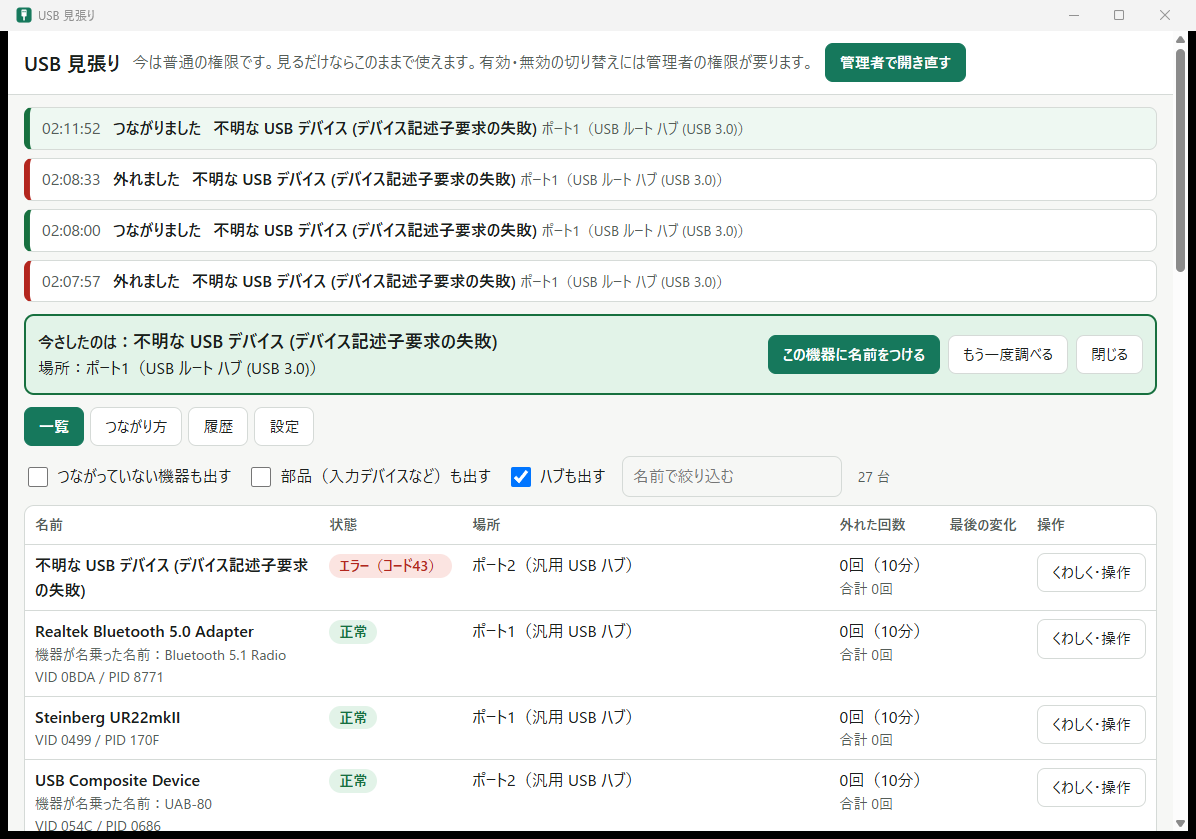
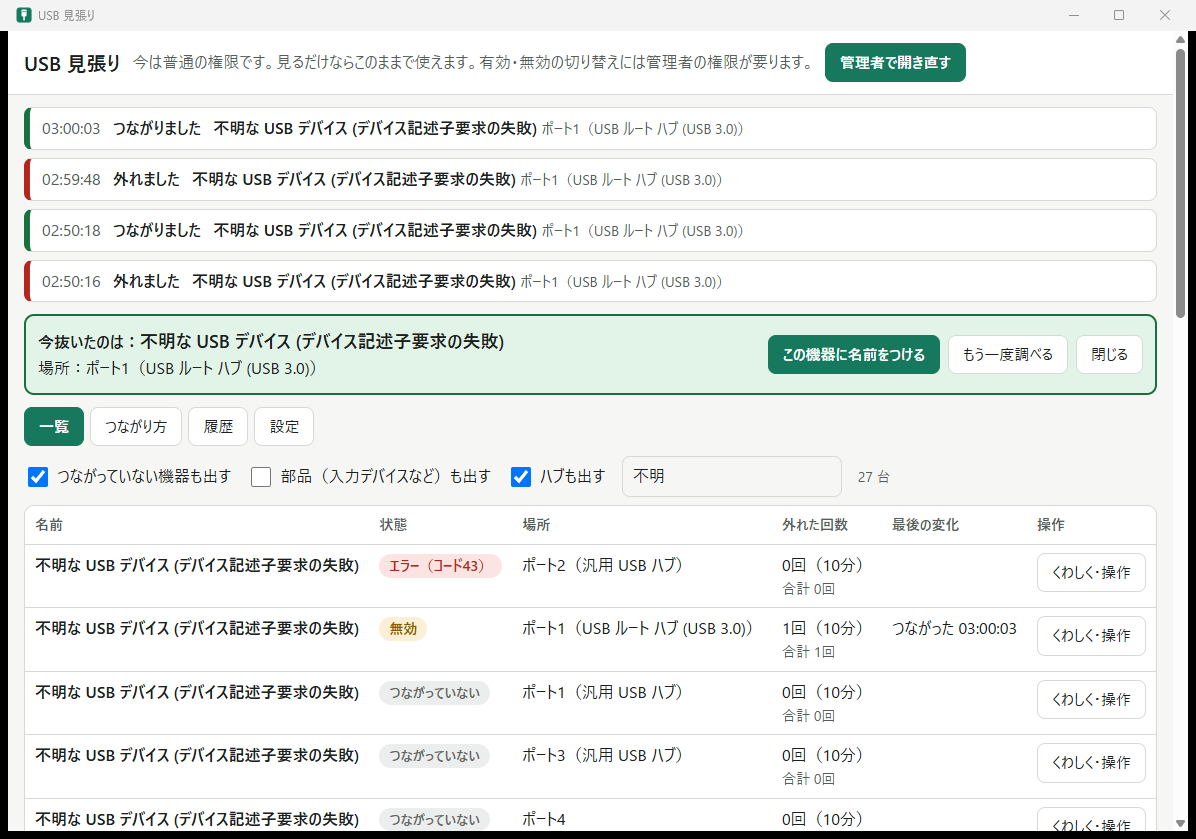
README を今の仕様に更新、1つだけ開くようにする
- README: 画面ごとの説明と画像を今の画面で撮り直し、絞り込み・履歴・
  有効・無効と省電力の画像、見張りの仕組み、テストの流し方を追加
- 2つ同時に開くと両方が履歴に書き込んで記録が二重になっていた
  → 2つ目は開いている窓を前に出して終わる。「管理者で開き直す」のときは
    前の窓が閉じるのを最大10秒待つ
- 過去の二重の記録は、履歴の表示で1回にまとめる（ファイルは消さない）

diff --git a/ui/index.html b/ui/index.html
@@ -1084,8 +1084,20 @@
       }
 
       // ---------- 履歴 ----------
+      // 2 つ同時に開いていたときの記録は二重になっているので、表示では 1 回にまとめる
+      function dedupeChanges(list) {
+        const out = [];
+        for (const ch of list) {
+          const key = ch.kind + "|" + ch.items.map((i) => up(i.id)).join(",");
+          const dup = out.find(
+            (o) => o._key === key && Math.abs(o.time - ch.time) < 2000,
+          );
+          if (!dup) out.push({ ...ch, _key: key });
+        }
+        return out;
+      }
       async function loadHistory() {
-        const h = await invoke("get_history", { limit: 500 });
+        const h = dedupeChanges(await invoke("get_history", { limit: 500 }));
         document.getElementById("hist").innerHTML =
           h.map((ch) => changeHtml(ch, false)).join("") ||
           `<div class="empty">まだ記録がありません</div>`;
@@ -1219,8 +1231,8 @@
       (async () => {
         await loadAdmin();
         await refresh();
-        const h = await invoke("get_history", { limit: 4 });
-        state.recent = h;
+        const h = dedupeChanges(await invoke("get_history", { limit: 12 }));
+        state.recent = h.slice(0, 4);
         renderRecent();
         loadPower().then(() => {
           if (dlg.open) renderDetail();

diff --git a/src-tauri/src/main.rs b/src-tauri/src/main.rs
@@ -85,7 +85,7 @@ fn relaunch_admin(app: tauri::AppHandle) -> Result<(), String> {
             None,
             w!("runas"),
             PCWSTR(wexe.as_ptr()),
-            None,
+            w!("--relaunched"),
             None,
             windows::Win32::UI::WindowsAndMessaging::SW_SHOWNORMAL,
         )
@@ -201,7 +201,68 @@ fn show_error(msg: &str) {
     }
 }
 
+/// 1 つだけ開くための目印 (名前付きミューテックス)。取れたら true。
+/// 取れたハンドルはアプリが終わるまで持ち続ける。
+fn take_single_instance() -> bool {
+    use windows::core::w;
+    use windows::Win32::Foundation::{CloseHandle, GetLastError, ERROR_ALREADY_EXISTS};
+    use windows::Win32::System::Threading::CreateMutexW;
+    unsafe {
+        match CreateMutexW(None, false, w!("Local\\usb-watch-single-instance")) {
+            Ok(h) => {
+                if GetLastError() == ERROR_ALREADY_EXISTS {
+                    // 自分のハンドルは閉じる (持ったままだと、先の窓が閉じても目印が残る)
+                    let _ = CloseHandle(h);
+                    false
+                } else {
+                    true
+                }
+            }
+            // 管理者の窓が作った目印は、普通の権限からは開けない (= もう開いている)
+            Err(_) => false,
+        }
+    }
+}
+
+/// すでに開いている窓を前に出す。見つからなければ false。
+fn focus_existing() -> bool {
+    use windows::core::w;
+    use windows::Win32::UI::WindowsAndMessaging::{FindWindowW, SetForegroundWindow, ShowWindow, SW_RESTORE};
+    unsafe {
+        for title in [w!("USB 見張り"), w!("USB 見張り（管理者）")] {
+            if let Ok(h) = FindWindowW(None, title) {
+                if !h.is_invalid() {
+                    let _ = ShowWindow(h, SW_RESTORE);
+                    let _ = SetForegroundWindow(h);
+                    return true;
+                }
+            }
+        }
+    }
+    false
+}
+
 fn main() {
+    // 2 つ同時に動くと、両方が履歴に書き込んで記録が二重になる
+    let relaunched = std::env::args().any(|a| a == "--relaunched");
+    let mut got = take_single_instance();
+    if !got && relaunched {
+        // 「管理者で開き直す」のときは、前の窓が閉じるのを最大 10 秒待つ
+        for _ in 0..50 {
+            std::thread::sleep(std::time::Duration::from_millis(200));
+            got = take_single_instance();
+            if got {
+                break;
+            }
+        }
+    }
+    if !got {
+        if !focus_existing() {
+            show_error("USB 見張りはもう開いています。");
+        }
+        return;
+    }
+
     let shared: Shared = Arc::new(Mutex::new(watch::Counters::default()));
     tauri::Builder::default()
         .manage(shared.clone())

diff --git a/README.md b/README.md
@@ -5,68 +5,110 @@ USB 機器の一覧を出して、**つないだ・外れた**をその場で知
 
 ![一覧の画面](docs/images/list.png)
 
+## ダウンロード
+
+[Releases](https://github.com/hhurt21/usb-preview/releases) から `usb-watch.exe` をダウンロードして開くだけです。インストールは要りません。
+
+- Windows 10 / 11 用です。画面の表示に Microsoft Edge WebView2 を使います（Windows 11 には最初から入っています）
+- 署名していない exe なので、初めて開くときに SmartScreen が出ることがあります。「詳細情報」→「実行」で開けます
+
 ## できること
 
-| 機能                   | 内容                                                                                                                                              |
-| ---------------------- | ------------------------------------------------------------------------------------------------------------------------------------------------- |
-| 一覧                   | つながっている USB 機器と、その状態（正常・エラー・無効・つながっていない）・場所を表示します。機器が自分で名乗った名前（例：AK820MAX）も出します |
-| つないだ・外れたの表示 | 変化があると、画面の上に時刻つきで出します。外れた機器は消さずに残します。1秒もしないうちに戻った機器も「外れてすぐ戻りました」と出します                                                                          |
-| 外れた回数             | 10分で3回以上外れた機器は、赤い印と「くり返し外れています」を出して、一覧の一番上に並べます                                                       |
-| 抜いて当てる           | ボタンを押してから機器を1つ抜く（さす）と、それが何だったかを表示します                                                                           |
-| 名前をつける           | 機器と差し込み口に、自分で分かる名前をつけられます（例：「キーボード」「本体の前・左」）                                                          |
-| 有効・無効             | 機器を無効にしたり、有効に戻したりします。無効にしてすぐ戻す「つなぎ直す」もあります                                                              |
-| 省電力の設定           | 「省電力のために Windows が USB の電源を切ってよいか」を、機器ごとと PC 全体で変えられます                                                        |
-| 音のオン・オフ         | Windows の「つないだ・外した・失敗した」の音を消したり、元に戻したりします                                                                        |
-| 履歴                   | いつ何がつながって、いつ外れたかをファイルに残します                                                                                              |
+| 機能                     | 内容                                                                                                        | 管理者の権限 |
+| ------------------------ | ----------------------------------------------------------------------------------------------------------- | ------------ |
+| 一覧                     | USB 機器の名前・状態・場所・外れた回数を表示します。機器が自分で名乗った名前（例：AK820MAX）も出します      | 要らない     |
+| 絞り込み                 | つながっていない機器、部品（入力デバイスなど）、ハブを出すかどうかと、名前で絞り込めます                    | 要らない     |
+| つないだ・外れたの表示   | 変化があると、画面の上に時刻つきで出します。1秒もしないうちに戻った機器も「外れてすぐ戻りました」と出します | 要らない     |
+| くり返し外れる機器の印   | 10分で3回以上外れた機器は、赤い印と「くり返し外れています」を出して、一覧の一番上に並べます                 | 要らない     |
+| 抜いて当てる             | ボタンを押してから機器を1つ抜く（さす）と、それが何だったかを表示します                                     | 要らない     |
+| つながり方               | コントローラー → ハブ → 機器 の順に、木の形で並べます                                                       | 要らない     |
+| 名前をつける             | 機器と差し込み口に、自分で分かる名前をつけられます（例：「キーボード」「本体の前・左」）                    | 要らない     |
+| 履歴                     | いつ何がつながって、いつ外れたかをファイルに残して、新しい順に表示します                                    | 要らない     |
+| 音のオン・オフ           | Windows の「つないだ・外した・失敗した」の音を消したり、元に戻したりします                                  | 要らない     |
+| 省電力の設定（PC 全体）  | 電源プランの「USB のセレクティブ サスペンド」を変えます                                                     | 要らない     |
+| 有効・無効・つなぎ直す   | 機器を無効にしたり、有効に戻したりします。無効にしてすぐ戻す「つなぎ直す」もあります                        | **要る**     |
+| 省電力の設定（機器ごと） | 「省電力のために Windows がこの機器の電源を切ってよいか」を変えます                                         | **要る**     |
+
+## 使い方
+
+1. `usb-watch.exe` を開きます。見るだけなら、このまま使えます
+2. 有効・無効や機器ごとの省電力を変えるときは、上の「管理者で開き直す」を押します。Windows の確認画面で「はい」を押すと、題名が「USB 見張り（管理者）」の窓に入れ替わります
+
+USB 見張りは1つしか開きません。もう開いているときに exe を開くと、開いている窓が前に出てきます。
+
+### 音がうるさいとき
+
+1. 「設定」タブで「音を消す」を押す（まず静かにする）
+2. 「抜いて調べる」を押して、怪しい機器を1つずつ抜き、原因の機器を探す
+3. 見つかったら、ケーブルや差し込み口を変える。直ったら「音を鳴らす」で元に戻す
+
+エラーの「コード43」は、機器が Windows に名前を伝える前に失敗した、という意味です。よくある原因は、ケーブル・接触不良・機器の故障・電力不足です。このときは本当の機器名が分からないので、場所（どのポートか）で探します。
 
 ## 画面
 
-### どの機器か調べる（抜いて当てる）
+### 一覧と絞り込み
 
-「抜いて調べる」を押すと、60秒待ちます。その間に機器を1つ抜くと、名前と場所が出ます。そのまま名前をつけることもできます。
+最初の画面です。上に、つながった・外れたの記録が新しい順に4つ並びます。
+
+| 欄         | 内容                                                                                                             |
+| ---------- | ---------------------------------------------------------------------------------------------------------------- |
+| 名前       | 自分でつけた名前 → Windows の名前 の順に出します。下の小さな文字は、元の名前・機器が名乗った名前・VID / PID です |
+| 状態       | 正常（緑）・エラー（赤、コードつき）・無効（黄）・つながっていない（灰）                                         |
+| 場所       | 「ポート番号（つながっている先）」。差し込み口に名前をつけると、その名前を出します                               |
+| 外れた回数 | 直近10分の回数と、アプリを開いてからの合計                                                                       |
+| 最後の変化 | アプリを開いてから最後につながった・外れた時刻                                                                   |
+
+チェックと文字で絞り込めます。下の画像は「部品も出す」にして「AK820」で絞り込んだところです。キーボード本体（USB Composite Device）と、その部品の入力デバイスが並んでいます。
+
+![絞り込み](docs/images/filter.png)
+
+### 抜いて当てる
+
+「抜いて調べる」を押すと、60秒待ちます。
 
 ![抜いて調べる（待っているところ）](docs/images/identify.png)
 
-抜いた（さした）機器が見つかると、こうなります。上には、つながった・外れたの記録が時刻つきで並びます。
+その間に機器を1つ抜く（さす）と、名前と場所が出ます。「この機器に名前をつける」を押すと、そのまま名前をつけられます。
+下の画像は、例の不明な機器が外れたのを当てたところです。そのあと戻ってきたので、一覧では「1回」「つながった 03:00:03」になっています。
 
 ![抜いて調べる（見つかったところ）](docs/images/identify-found.png)
 
 ### つながり方
 
-コントローラー（PC本体の USB の口のまとまり）→ ハブ → 機器 の順に並べます。ハブごと調子が悪いときに見つけやすくなります。
+コントローラー（PC本体の USB の口のまとまり）→ ハブ → 機器 の順に並べます。ハブごと調子が悪いときに見つけやすくなります。くり返し外れている機器は赤い枠で囲みます。
 
 ![つながり方](docs/images/tree.png)
 
 ### くわしく・操作
 
-一覧の「くわしく・操作」を押すと開きます。名前つけ、有効・無効、省電力の設定をここで変えます。
-キーボードやマウス、ハブを無効にしようとすると、注意が出ます。
+一覧かつながり方の「くわしく・操作」を押すと開きます。状態・名前・メーカー・場所・外れた回数・ID が並び、その下で名前をつけます。
 
 ![くわしく・操作](docs/images/detail.png)
 
+下に進むと、有効・無効と省電力の設定があります。
+
+- キーボードやマウス（部品に入力デバイスがある機器も含む）を無効にしようとすると、赤い注意と確認が出ます
+- ハブを無効にしようとすると、「その先の機器も全部使えなくなります」と出ます
+- キーボードのような複合機器は、本体ではなく部品のほうに省電力の設定があります。その場合は「部品4個の設定」のように出して、ボタン1つで部品の分をまとめて変えます
+- 操作の結果（「無効にしました」など）は、窓を閉じるまで残ります
+
+![有効・無効と省電力](docs/images/detail-actions.png)
+
+### 履歴
+
+つながった・外れた・外れてすぐ戻った・状態が変わった、を新しい順に最大500件表示します。
+
+![履歴](docs/images/history.png)
+
 ### 設定
 
-音のオン・オフと、PC 全体の省電力の設定です。
+音のオン・オフと、PC 全体の省電力の設定です。今の状態を「今：」のあとに出します。
 
 ![設定](docs/images/settings.png)
 
-## 使い方
-
-1. [Releases](https://github.com/hhurt21/usb-preview/releases) から `usb-watch.exe` をダウンロードして開きます（インストールは要りません）
-2. 見るだけなら、このまま使えます
-3. 有効・無効や省電力の設定を変えるときは、上の「管理者で開き直す」を押します（Windows の確認画面が出ます）
-
-### 音がうるさいとき
-
-1. 「設定」タブで「音を消す」を押す（まず静かにする）
-2. 「抜いて調べる」を押して、怪しい機器を1つずつ抜いて、原因の機器を探す
-3. 見つかったら、ケーブルや差し込み口を変える。直ったら「音を鳴らす」で戻す
-
-エラーの「コード43」は、機器が Windows に名前を伝える前に失敗した、という意味です。よくある原因は、ケーブル・接触不良・機器の故障・電力不足です。このときは本当の機器名が分からないので、場所（どのポートか）で探します。
-
 ## 保存するもの
 
-`%APPDATA%\usb-watch` に保存します。「設定」タブの「保存先のフォルダーを開く」で開けます。
+`%APPDATA%\usb-watch` に保存します。「設定」タブか「履歴」タブの「保存先のフォルダーを開く」で開けます。
 
 | ファイル            | 中身                                                   |
 | ------------------- | ------------------------------------------------------ |
@@ -74,7 +116,7 @@ USB 機器の一覧を出して、**つないだ・外れた**をその場で知
 | `history.jsonl`     | つないだ・外れたの記録（1行に1回分）                   |
 | `sound_backup.json` | 音を消す前の設定（「音を鳴らす」で戻すときに使います） |
 
-画面を描く部品（WebView2）の作業フォルダーは `%LOCALAPPDATA%\usb-watch` にあります。普通の権限と管理者で別のフォルダーを使います。
+画面を描く部品（WebView2）の作業フォルダーは `%LOCALAPPDATA%\usb-watch` です。普通の権限・管理者・試験用で別のフォルダーを使います（同じフォルダーを同時に使うと開けなくなるため）。
 
 ## 作り方（ビルド）
 
@@ -82,23 +124,35 @@ Rust と Tauri 2 で作っています。画面は `ui/index.html` の1枚だけ
 
 ```bat
 cd src-tauri
+cargo test -j 4
 cargo build --release -j 4
 ```
 
 できた exe は `src-tauri\target\release\usb-watch.exe` です。
-試験用のビルド（`cargo build`）だと、黒い窓も一緒に開きます。
+
+試験用のビルド（`cargo build`）は次の点が違います。配る exe には入りません。
+
+- 黒い窓（コンソール）も一緒に開きます
+- 画面を外から操作する口（`127.0.0.1:9333`、Chrome DevTools Protocol）を開きます
 
 ### ファイルの役割
 
-| ファイル                   | 役割                                                                                                                          |
-| -------------------------- | ----------------------------------------------------------------------------------------------------------------------------- |
-| `src-tauri/src/devices.rs` | 機器の一覧と、有効・無効の切り替え（SetupAPI / CfgMgr32）                                                                     |
-| `src-tauri/src/watch.rs`   | つないだ・外れたの見張り。Windows の知らせを合図に一覧を取り直して比べます。知らせが来ない機器のために 1.5 秒ごとにも比べます |
-| `src-tauri/src/power.rs`   | 省電力の設定（機器ごとは WMI の `MSPower_DeviceEnable`、全体は `powercfg`）                                                   |
-| `src-tauri/src/sound.rs`   | 音の設定（`HKCU\AppEvents\Schemes`）                                                                                          |
-| `src-tauri/src/store.rs`   | 名前と履歴の保存                                                                                                              |
-| `src-tauri/src/main.rs`    | 画面から呼ぶ機能の入り口                                                                                                      |
-| `ui/index.html`            | 画面                                                                                                                          |
+| ファイル                   | 役割                                                                        |
+| -------------------------- | --------------------------------------------------------------------------- |
+| `src-tauri/src/devices.rs` | 機器の一覧と、有効・無効の切り替え（SetupAPI / CfgMgr32）                   |
+| `src-tauri/src/watch.rs`   | つないだ・外れたの見張り（下を参照）。比べ方のテストもここにあります        |
+| `src-tauri/src/power.rs`   | 省電力の設定（機器ごとは WMI の `MSPower_DeviceEnable`、全体は `powercfg`） |
+| `src-tauri/src/sound.rs`   | 音の設定（`HKCU\AppEvents\Schemes`）                                        |
+| `src-tauri/src/store.rs`   | 名前と履歴の保存                                                            |
+| `src-tauri/src/main.rs`    | 窓を作る・1つだけ開く・管理者で開き直す・画面から呼ぶ機能の入り口           |
+| `ui/index.html`            | 画面                                                                        |
+
+### 見張りの仕組み
+
+1. Windows に「機器が変わったら知らせて」と頼んでおきます（`CM_Register_Notification`）
+2. 知らせが来たら 0.15 秒待ってまとめ、USB 機器の一覧を取り直して、前の一覧と比べます。知らせが来ない機器のために、1.5 秒ごとにも比べます
+3. 1台を抜くと部品もまとめて消えるので、親が同じ組に入っていない機器（実際に抜いた機器）だけを出して、部品の数を添えます
+4. 外れて1秒もしないうちに戻った機器は、一覧を比べても前後とも「ある」に見えます。なので、知らせに入っている「外れた機器の ID」を使って「外れてすぐ戻りました」として数えます
 
 ## 注意
 
